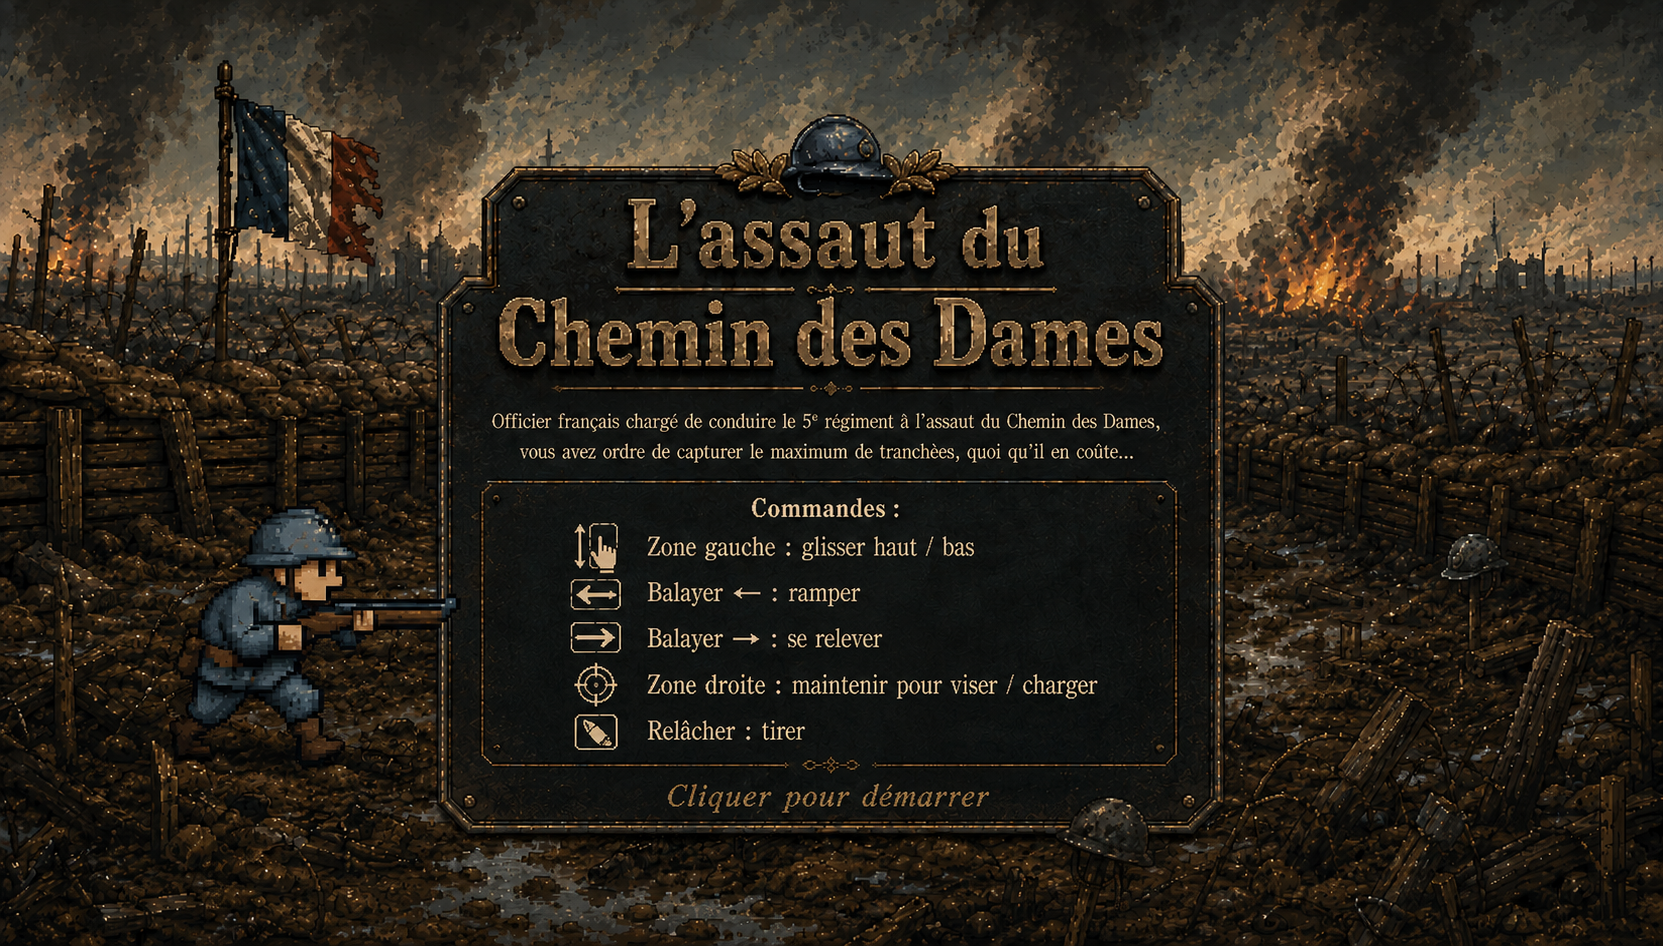
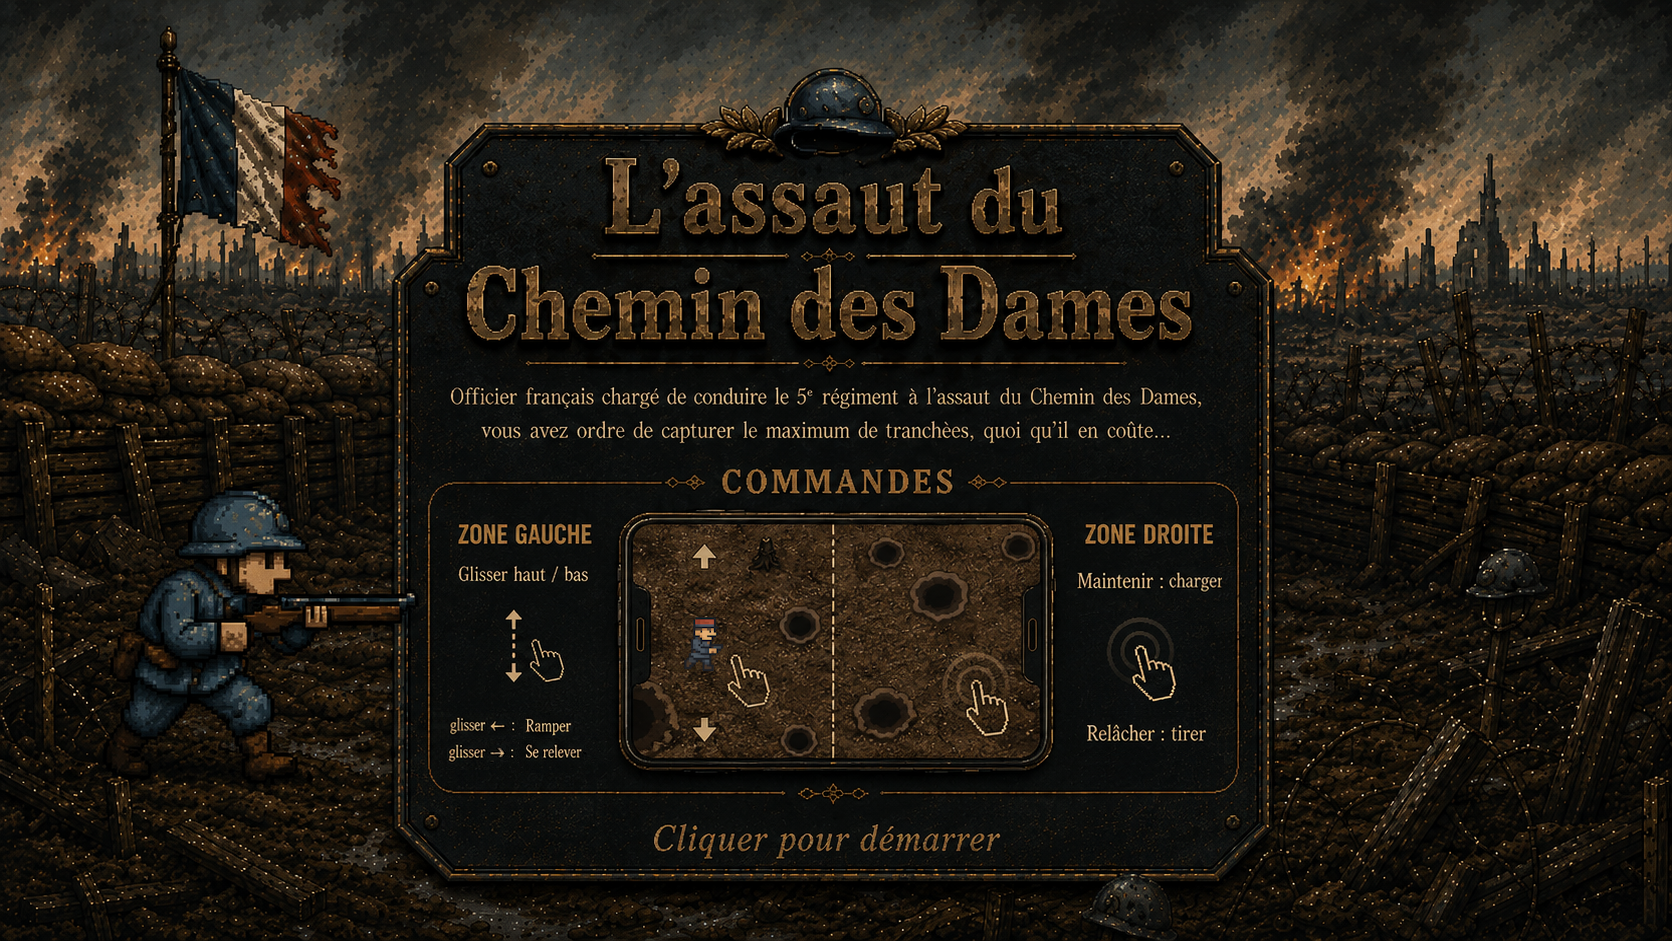
Optimise l’affichage responsive du jeu sur mobile

diff --git a/game.html b/game.html
@@ -5,10 +5,36 @@
 <meta name="viewport" content="width=device-width, initial-scale=1, viewport-fit=cover">
 <title>L’Assaut du Chemin des Dames</title>
 <style>
-html,body{margin:0;padding:0;background:#2b2b2b;overflow:hidden;touch-action:none;overscroll-behavior:none;}
-#ui{position:absolute;top:0;left:0;color:#fff;font-family:sans-serif;padding:10px;z-index:10;pointer-events:none;}
-#message{position:absolute;top:50%;left:50%;transform:translate(-50%,-50%);color:#fff;font-family:sans-serif;font-size:32px;text-align:center;pointer-events:none;z-index:10;display: none;}
-canvas{display:block;touch-action:none;user-select:none;-webkit-user-select:none;} /* Prevent margin below canvas */
+html,body{width:100%;height:100%;margin:0;padding:0;background:#000;overflow:hidden;touch-action:none;overscroll-behavior:none;}
+#ui{
+  position:fixed;
+  top:0;
+  left:0;
+  color:#fff;
+  font-family:sans-serif;
+  font-size:clamp(14px,2.2vmin,20px);
+  padding-top:max(10px,env(safe-area-inset-top));
+  padding-left:max(10px,env(safe-area-inset-left));
+  z-index:10;
+  pointer-events:none;
+}
+#message{
+  position:fixed;
+  top:50%;
+  left:50%;
+  width:min(88vw,760px);
+  transform:translate(-50%,-50%);
+  color:#fff;
+  font-family:sans-serif;
+  font-size:clamp(20px,4vmin,32px);
+  line-height:1.25;
+  text-align:center;
+  text-wrap:balance;
+  pointer-events:none;
+  z-index:10;
+  display:none;
+}
+canvas{position:fixed;inset:0;display:block;touch-action:none;user-select:none;-webkit-user-select:none;} /* Prevent margin below canvas */
 #startMenu {
   position: absolute;
   inset: 0;
@@ -31,10 +57,30 @@ canvas{display:block;touch-action:none;user-select:none;-webkit-user-select:none
   display: block;
   width: 100%;
   height: 100%;
-  object-fit: cover;
+  object-fit: contain;
   object-position: center;
   user-select: none;
   -webkit-user-drag: none;
+}
+
+#orientationMessage {
+  position:fixed;
+  inset:0;
+  display:none;
+  align-items:center;
+  justify-content:center;
+  padding:calc(24px + env(safe-area-inset-top)) calc(24px + env(safe-area-inset-right)) calc(24px + env(safe-area-inset-bottom)) calc(24px + env(safe-area-inset-left));
+  box-sizing:border-box;
+  background:#16120f;
+  color:#fff;
+  font:600 clamp(22px,7vw,38px)/1.25 sans-serif;
+  text-align:center;
+  z-index:30;
+  touch-action:none;
+}
+
+@media (orientation:portrait) and (hover:none) and (pointer:coarse) {
+  #orientationMessage { display:flex; }
 }
 </style>
 </head>
@@ -49,6 +95,7 @@ canvas{display:block;touch-action:none;user-select:none;-webkit-user-select:none
 <canvas id="game"></canvas>
 <div id="ui">Tranchées capturées: <span id="score">0</span></div>
 <div id="message"></div>
+<div id="orientationMessage">Tournez votre téléphone ou votre tablette pour jouer en mode paysage.</div>
 
 <!-- Sound Elements -->
 <!-- Single sounds -->
@@ -100,10 +147,29 @@ canvas{display:block;touch-action:none;user-select:none;-webkit-user-select:none
 
 <script>
 (function(){
-const canvas = document.getElementById('game');
-// Le jeu repeint tout le canvas à chaque image : le déclarer opaque évite au
-// navigateur une composition alpha inutile, sans modifier le rendu final.
-const ctx = canvas.getContext('2d', { alpha: false });
+const displayCanvas = document.getElementById('game');
+const renderCanvas = document.createElement('canvas');
+
+// Le jeu utilise toujours la hauteur logique d'un téléphone en paysage.
+// L'ordinateur et la tablette affichent ensuite exactement les mêmes
+// proportions, simplement agrandies pour occuper leur propre écran.
+const GAME_VIEW_HEIGHT = 390;
+const MAX_RENDER_PIXEL_RATIO = 2;
+let gameViewWidth = 844;
+let renderScale = 1;
+
+// Cet objet conserve l'interface canvas.width/canvas.height utilisée par toute
+// la logique du jeu, tout en séparant cette taille logique de la résolution
+// physique nécessaire aux écrans Retina.
+const canvas = {
+    get width() { return gameViewWidth; },
+    get height() { return GAME_VIEW_HEIGHT; }
+};
+
+// Le jeu repeint tout le canvas à chaque image : les deux surfaces sont opaques
+// pour éviter une composition alpha inutile.
+const ctx = renderCanvas.getContext('2d', { alpha: false });
+const displayCtx = displayCanvas.getContext('2d', { alpha: false });
 
 // --- Debug Flags ---
 const DEBUG_DRAW_HITBOXES = false; // Set to true to see the collision rectangles
@@ -470,7 +536,7 @@ window.addEventListener('keyup', e => {
 });
 
 function pointerPosition(event) {
-    const rect = canvas.getBoundingClientRect();
+    const rect = displayCanvas.getBoundingClientRect();
     return {
         x: (event.clientX - rect.left) * (canvas.width / rect.width),
         y: (event.clientY - rect.top) * (canvas.height / rect.height),
@@ -557,7 +623,7 @@ function resetTouchControls() {
     chargeInputs.touch = false;
 }
 
-canvas.addEventListener('pointerdown', event => {
+displayCanvas.addEventListener('pointerdown', event => {
     if (event.pointerType === 'mouse') return;
     event.preventDefault();
 
@@ -586,10 +652,10 @@ canvas.addEventListener('pointerdown', event => {
         else if (gameState === 'playing') beginPlayerCharge('touch');
     }
 
-    canvas.setPointerCapture(event.pointerId);
+    displayCanvas.setPointerCapture(event.pointerId);
 });
 
-canvas.addEventListener('pointermove', event => {
+displayCanvas.addEventListener('pointermove', event => {
     if (event.pointerId !== touchControls.leftPointerId) return;
     event.preventDefault();
 
@@ -598,7 +664,7 @@ canvas.addEventListener('pointermove', event => {
     updateTouchPosture(position.x, position.y);
 });
 
-canvas.addEventListener('pointerup', event => {
+displayCanvas.addEventListener('pointerup', event => {
     if (
         event.pointerId !== touchControls.leftPointerId &&
         event.pointerId !== touchControls.rightPointerId
@@ -606,13 +672,13 @@ canvas.addEventListener('pointerup', event => {
 
     event.preventDefault();
     releaseTouchPointer(event.pointerId);
-    if (canvas.hasPointerCapture(event.pointerId)) {
-        canvas.releasePointerCapture(event.pointerId);
+    if (displayCanvas.hasPointerCapture(event.pointerId)) {
+        displayCanvas.releasePointerCapture(event.pointerId);
     }
 });
 
-canvas.addEventListener('pointercancel', event => releaseTouchPointer(event.pointerId, false));
-canvas.addEventListener('lostpointercapture', event => releaseTouchPointer(event.pointerId, false));
+displayCanvas.addEventListener('pointercancel', event => releaseTouchPointer(event.pointerId, false));
+displayCanvas.addEventListener('lostpointercapture', event => releaseTouchPointer(event.pointerId, false));
 
 document.getElementById('startMenu').addEventListener('pointerdown', event => {
     if (event.pointerType === 'mouse') return;
@@ -738,10 +804,35 @@ createExplosionVisualCaches();
 
 // --- Canvas Setup and Resize ---
 function resize() {
-    canvas.width = window.innerWidth;
-    canvas.height = window.innerHeight;
-    // Adjust player Y position if canvas height changes significantly during game (optional)
-    // if (player) { player.y = Math.max(0, Math.min(canvas.height - player.h, player.y)); }
+    const cssWidth = Math.max(1, window.innerWidth);
+    const cssHeight = Math.max(1, window.innerHeight);
+    const pixelRatio = Math.min(window.devicePixelRatio || 1, MAX_RENDER_PIXEL_RATIO);
+    const previousGameViewWidth = gameViewWidth;
+
+    // Hauteur logique fixe : les proportions vues sur téléphone restent les
+    // mêmes. Seule la largeur logique varie avec le format réel de l'écran.
+    gameViewWidth = GAME_VIEW_HEIGHT * (cssWidth / cssHeight);
+    renderScale = (cssHeight / GAME_VIEW_HEIGHT) * pixelRatio;
+
+    const backingWidth = Math.max(1, Math.round(cssWidth * pixelRatio));
+    const backingHeight = Math.max(1, Math.round(cssHeight * pixelRatio));
+    renderCanvas.width = backingWidth;
+    renderCanvas.height = backingHeight;
+    displayCanvas.width = backingWidth;
+    displayCanvas.height = backingHeight;
+    displayCanvas.style.width = `${cssWidth}px`;
+    displayCanvas.style.height = `${cssHeight}px`;
+
+    displayCtx.imageSmoothingEnabled = true;
+    displayCtx.imageSmoothingQuality = 'high';
+
+    // Si les barres du navigateur changent la largeur pendant un geste, les
+    // ancres suivent la nouvelle largeur au lieu de provoquer un faux swipe.
+    if (previousGameViewWidth > 0 && previousGameViewWidth !== gameViewWidth) {
+        const horizontalRatio = gameViewWidth / previousGameViewWidth;
+        touchControls.leftLastX *= horizontalRatio;
+        touchControls.postureAnchorX *= horizontalRatio;
+    }
 }
 window.addEventListener('resize', resize);
 resize(); // Initial resize
@@ -2879,7 +2970,11 @@ function drawLargeGroundTextureLayer(targetCtx) {
 }
 
 function renderGame() {
-   
+    // Toutes les coordonnées du jeu restent dans l'espace logique d'un
+    // téléphone. Cette transformation produit ensuite une image nette à la
+    // résolution physique de l'écran courant.
+    ctx.setTransform(renderScale, 0, 0, renderScale, 0, 0);
+    ctx.globalAlpha = 1;
 
     // Couleur de secours visible uniquement pendant le chargement de l'image.
     ctx.fillStyle = '#4a3f35';
@@ -3114,6 +3209,16 @@ function renderGame() {
             ex.x + EXPLOSION_RADIUS > 0 && ex.x - EXPLOSION_RADIUS < canvas.width &&
             ex.y + EXPLOSION_RADIUS > 0 && ex.y - EXPLOSION_RADIUS < canvas.height) ex.draw();
     }
+
+    // Copie finale vers le canvas visible. Les deux surfaces ont la même
+    // résolution physique, donc aucun étirement supplémentaire n'est ajouté.
+    displayCtx.setTransform(1, 0, 0, 1, 0, 0);
+    displayCtx.globalAlpha = 1;
+    displayCtx.drawImage(
+        renderCanvas,
+        0, 0, renderCanvas.width, renderCanvas.height,
+        0, 0, displayCanvas.width, displayCanvas.height
+    );
 
     // UI (score and message) is handled by HTML elements outside the canvas
 }
